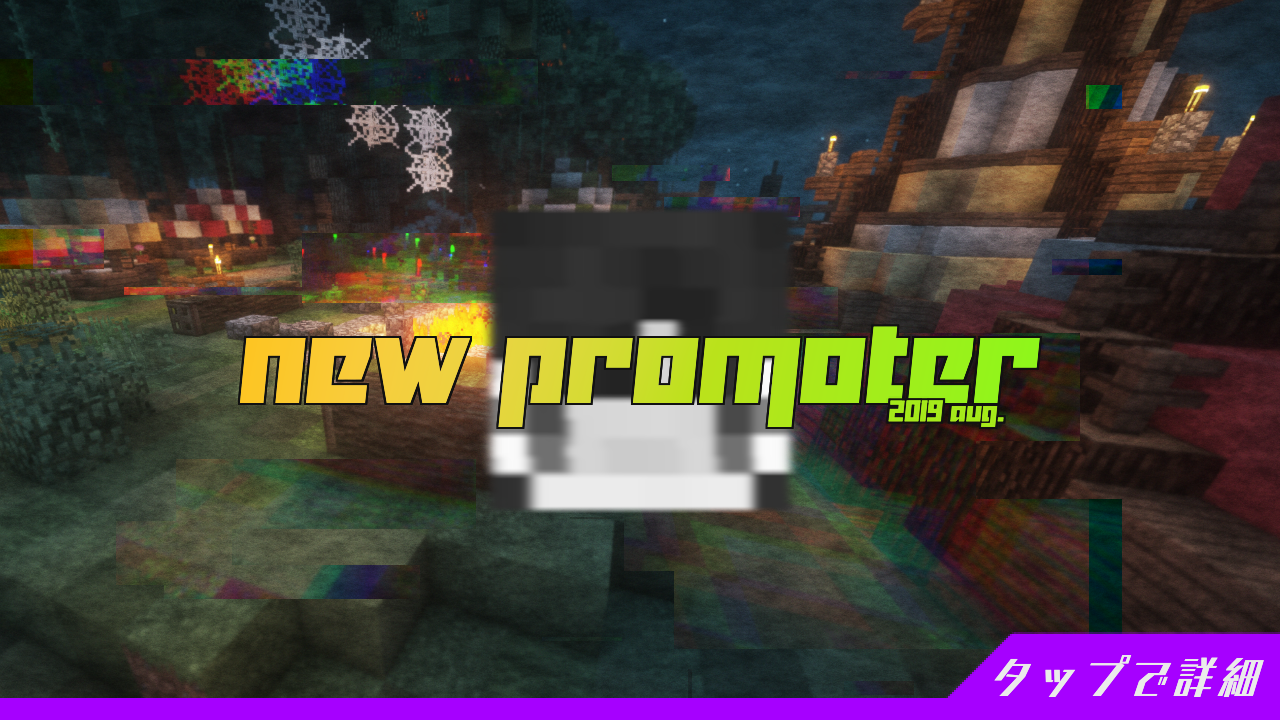
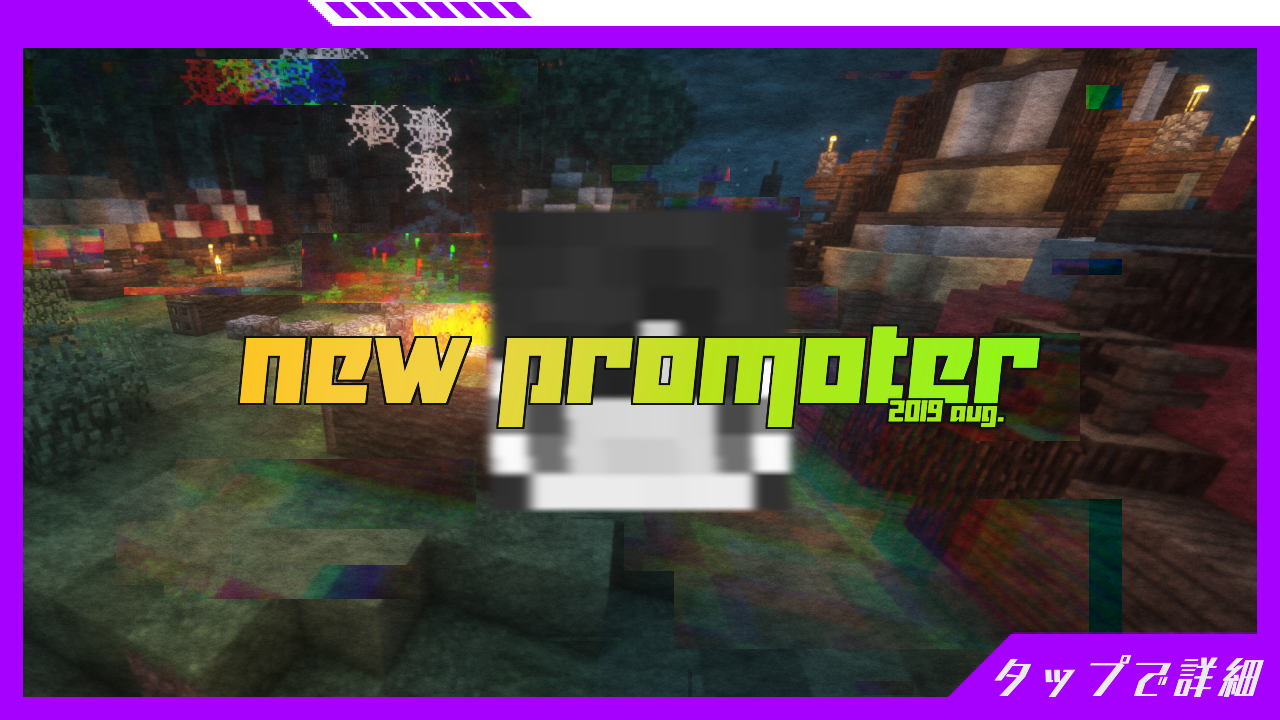
v1.21.0

Changed region(s): [[0.0, 0.0, 1.0, 0.9778]]

diff --git a/index.html b/index.html
@@ -13,13 +13,13 @@
 		<meta property="og:title" content="Mine Art Online | 「マイン・アート・オンライン」 オフィシャルサイト">
 		<meta property="og:type" content="website">
 		<meta property="og:url" content="https://www.minenet.work/">
-		<meta property="og:image" content="https://www.minenet.work/assets/image/pr/pr_1.jpg">
+		<meta property="og:image" content="https://www.minenet.work/assets/image/news/new_promoter_shei.png">
 		<meta property="og:site_name" content="Mine Art Online | 「マイン・アート・オンライン」 オフィシャルサイト">
 		<meta property="og:description" content="SAO をマインクラフトスケールで完全再現 VR世界のかつてない冒険へ。">
 		<meta property="og:locale" content="ja_JP">
 		<meta name="twitter:card" content="summary_large_image">
-		<meta name="twitter:image" content="https://www.minenet.work/assets/image/pr/pr_1.jpg">
-		<meta property="og:image:secure_url" content="https://www.minenet.work/assets/image/pr/pr_1.jpg" />
+		<meta name="twitter:image" content="https://www.minenet.work/assets/image/news/new_promoter_shei.png">
+		<meta property="og:image:secure_url" content="https://www.minenet.work/assets/image/news/new_promoter_shei.png" />
 		<meta property="og:image:alt" content="You can see beautiful builings and natures" />
 		<meta name="theme-color" content="#A901DB" />
 		<meta http-equiv="Pragma" content="no-cache">
@@ -83,7 +83,28 @@
 					</script>
 
 					<!-- TOP NEWS -->
+					<div id="layer_board_area">
+						<div class="layer_board_bg"></div>
+						<div class="layer_board">
+							<p>
+								<a href="./assets/loader/news/new_promoter_shei.html" class="switchModal" onclick="gtag('event', 'click', {'event_category': 'Links', 'event_label': 'ModalMenu'});">
+									<img src="./assets/image/news/new_promoter_shei.png" class="news_img"/>
+								</a>
+							</p>
+							
+							<p class="btn_close">
+								<a href="#">
+									<img src="./assets/image/close_button.png" alt="close" class="news_close" />
+								</a>
+							</p>
 
+							<div class="policy_check">
+								<a href="./assets/loader/policy.html" class="switchModal">
+									<p>当サイトのご利用にはポリシーをご確認いただく必要があります！</p>
+								</a>
+							</div>
+						</div>
+					</div>
 
 					<header>
 						<div id="header-height-tag" class="header-drawer left">
@@ -177,9 +198,9 @@
 											<a href="youridea.html"><img src="./assets/image/ticker/youridea.jpg"></a>
 										</li>
 
-										<li>
+<!-- 										<li>
 											<a href="./assets/loader/news/open_summer_beta_2019.html" class="switchModal"><img src="./assets/image/ticker/event/mao_summer_2019_ticker.jpg"></a>
-										</li>
+										</li> -->
 										
 										<li>
 											<a href="./assets/loader/news/update_notice.html" class="switchModal"><img src="./assets/image/ticker/update_notice.jpg"></a>
@@ -195,7 +216,7 @@
 						</div>
 					</div>
 
-					<div id="special">
+<!-- 					<div id="special">
 						<div class="table-tag white no demo_center flash">
 							<h2>BROADCAST</h2>
 						</div>
@@ -211,7 +232,7 @@
 								<iframe src="https://www.youtube.com/embed/j03oe2heaZw" frameborder="0" allow="accelerometer; autoplay; encrypted-media; gyroscope; picture-in-picture" allowfullscreen></iframe>
 							</div>
 						</div>
-					</div>
+					</div> -->
 
 					<div id="about">
 						<div class="table-tag white demo_center flash">
@@ -293,11 +314,19 @@
 									<a href="https://www.youtube.com/channel/UCAaxFE90BTCcgJYjiHNB1lQ" target="_blank" onclick="gtag('event', 'click', {'event_category': 'Thanks', 'event_label': 'Nekoberu'});">LINK</a>
 								</h6>
 							</div>
-							<div class="thanks-list-content unknown">
+							<div class="thanks-list-content">
+								<img src="./assets/image/promoters/shei.jpg" style="border-color: #111111" />
+								<h5>SHEI</h5>
+								<!-- <h6><a>LINK</a></h6> -->
+								<h6>
+									<a href="https://www.youtube.com/channel/UClpgAZCoIpHtB_y1tzuWmDQ" target="_blank" onclick="gtag('event', 'click', {'event_category': 'Thanks', 'event_label': 'Shei'});">LINK</a>
+								</h6>
+							</div>
+<!-- 							<div class="thanks-list-content unknown">
 								<img src="./assets/image/profile.jpg" style="border-color: #333333;" />
 								<h5>？？？</h5>
 								<h6><a>LINK</a></h6>
-							</div>
+							</div> -->
 						</div>
 					</div>
 				</div>

diff --git a/assets/js/load.js b/assets/js/load.js
@@ -4,7 +4,7 @@ var type = "NONE";
 
 $(function() {
 
-	console.log('v1.20.0');
+	console.log('v1.21.0');
 
 	if (!(getParam('news') == null)) {
 		noOpenNews = true;
@@ -58,24 +58,24 @@ function stopload(){
 		$('#loader').delay(600).fadeOut(300);
 
 		if (noOpenNews == false) {
-			// $('#layer_board_area').layerBoard({
-			// 	delayTime: 0,
-			// 	fadeTime : 1000,
-			// 	alpha : 0.8,
-			// 	limitMin : 15,
-			// 	limitCookie : 10
-			// });
+			$('#layer_board_area').layerBoard({
+				delayTime: 0,
+				fadeTime : 1000,
+				alpha : 0.8,
+				limitMin : 15,
+				limitCookie : 10
+			});
 		} else {
 			console.log(type);
 
 			if (type == "NEWS") {
-				// $('#layer_board_area').layerBoard({
-				// 	delayTime: 0,
-				// 	fadeTime : 1000,
-				// 	alpha : 0.8,
-				// 	limitMin : 0,
-				// 	limitCookie : 10
-				// });
+				$('#layer_board_area').layerBoard({
+					delayTime: 0,
+					fadeTime : 1000,
+					alpha : 0.8,
+					limitMin : 0,
+					limitCookie : 10
+				});
 			} else {
 				if (type == "MODAL") {
 					openModal(getParam('modal'));

diff --git a/assets/css/page/index.css b/assets/css/page/index.css
@@ -17,7 +17,7 @@
 	background-attachment: scroll;
 	background-size: cover;
 	background-position: center;
-	background-image: url(../../image/bg/bg_14.jpg);
+	background-image: url(../../image/bg/bg_15.jpg);
 
 	height: 100vh;
 	margin: auto;
